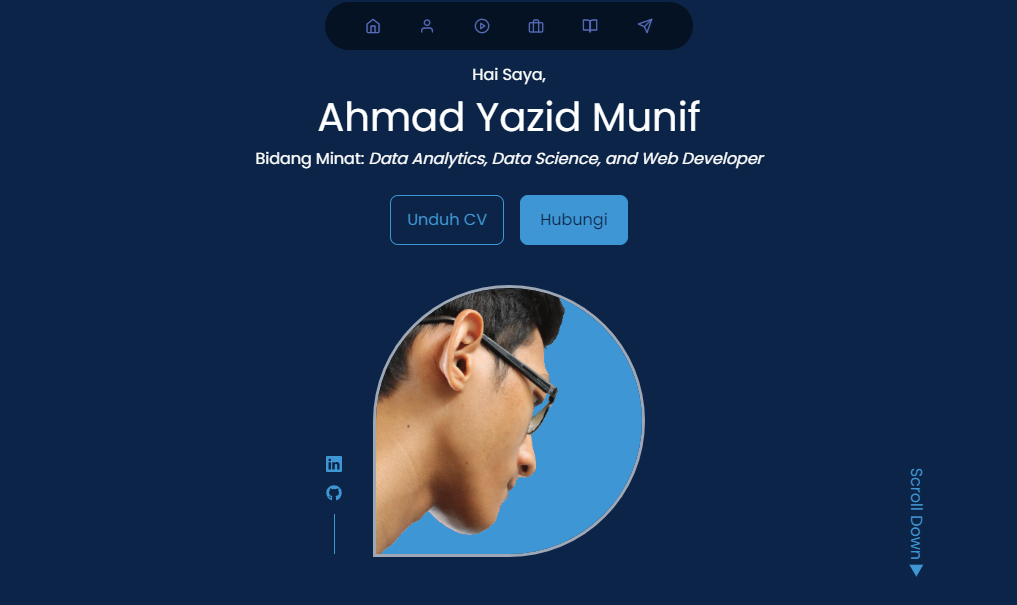
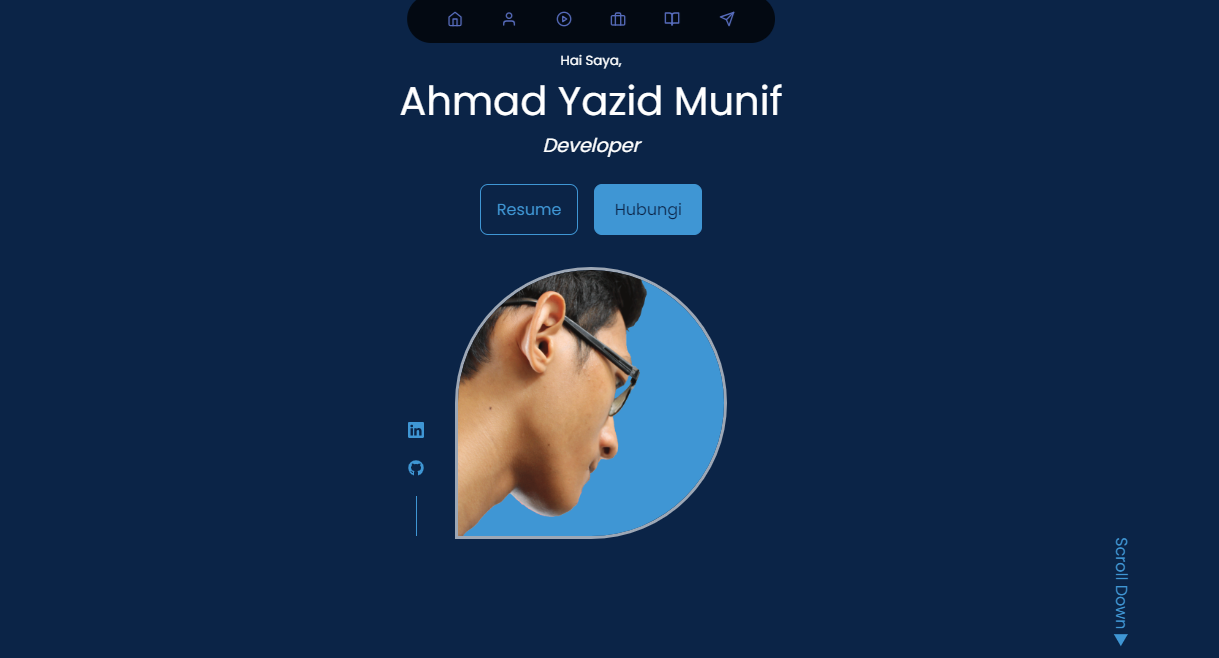
update Agustus

Changed region(s): [[0.2439, 0.0, 0.762, 0.9223], [0.884, 0.7736, 0.9449, 0.9818], [0.3048, 0.7438, 0.3353, 0.8331]]

diff --git a/src/components/experience/Experience.jsx b/src/components/experience/Experience.jsx
@@ -5,6 +5,7 @@ import CSS from '../../assets/bahasa_framework/css.png'
 import Javascript from '../../assets/bahasa_framework/js.png'
 import Python from '../../assets/bahasa_framework/python.png'
 import PHP from '../../assets/bahasa_framework/php.png'
+import Java from '../../assets/bahasa_framework/Java-Logo.png'
 import Jquery from '../../assets/bahasa_framework/jquery.png'
 import Codeigniter from '../../assets/bahasa_framework/Codeigniter.png'
 import Laravel from '../../assets/bahasa_framework/laravel.png'
@@ -18,12 +19,13 @@ const Experience = () => {
                     Saya pernah melakukan pengolahan data seperti
                     pembersihan data, manipulasi data, dan
                     data modeling dengan beberapa metode <i>machine learning</i>.
-                    Selain itu saya juga melakukan pengembangan web dengan beberapa
-                    project selama masih menjadi mahasiswa.
+                    Selain itu saya juga berlatih membuat
+                    project berbasis web untuk menambah skill programmer saya.
                 </p>
                 <p>
-                    Namun saya selalu ingin belajar lebih banyak di
-                    era teknologi industri yang cepat ini. Beberapa alat dan bahasa pemrograman yang pernah saya gunakan.
+                    Saya ingin belajar lebih banyak di
+                    era teknologi industri yang cepat ini.
+                    Beberapa alat dan bahasa pemrograman yang pernah saya gunakan antara lain.
                 </p>
                 <div className="skillmaybe">
                     <img className="used" src={HTML} alt="HTML" />
@@ -33,6 +35,7 @@ const Experience = () => {
                 <div className="skillmaybe">
                     <img className="used" src={Python} alt="Python" />
                     <img className="used" src={PHP} alt="PHP" />
+                    <img className="used" src={Java} alt="Java" />
                 </div>
                 <div className="skillmaybe">
                     <img className="used" src={Jquery} alt="Jquery" />

diff --git a/src/components/about/About.jsx b/src/components/about/About.jsx
@@ -13,17 +13,15 @@ const About = () => {
                 </div>
                 <div className="about_content">
                     <p className="aboutp">
-                        Nama saya Ahmad Yazid Munif. Saat ini saya adalah fresh graduate dan
-                        telah memperoleh gelar sarjana teknik informatika dari Universitas Trunojoyo,
-                        Madura.
+                        Nama saya Ahmad Yazid Munif. Saya lulus dan telah
+                        memperoleh gelar sarjana komputer dari jurusan Teknik Informatika
+                        Universitas Trunojoyo Madura.
                     </p>
                     <p className="aboutp secondparagraph">
                         Sepanjang studi hingga saat ini,
-                        saya lebih banyak belajar terkait dengan data.
-                        Mulai dari penambangan data <i>(Data Mining)</i>,
-                        pengolahan data (database) dan <i>Web Developer</i>.
-                        Sehingga saya memutuskan untuk mendalami karir
-                        sebagai data analyst dan data scientist.
+                        saya sangat bersemangat untuk mempelajari hal tentang programming,
+                        terutama pada web programming. Saat ini saya lebih sering belajar Python,
+                        PHP dan JavaScript untuk melatih keterampilan programming yang saya miliki.
                     </p>
                 </div>
             </div>

diff --git a/src/components/passion/Passion.jsx b/src/components/passion/Passion.jsx
@@ -11,9 +11,9 @@ const Passion = () => {
                     <article className="passion_card">
                         <BsCodeSlash className="passionIcon" />
                         &nbsp;
-                        <h5 className="cardp">Web development</h5>
-                        <p className="cardp">Membuat beberapa proyek kecil berbasis web menggunakan HTML, CSS, dan Javascript.
-                            Serta framework PHP seperti Codeigniter dan Laravel.</p>
+                        <h5 className="cardp">Web Developer</h5>
+                        <p className="cardp">Membuat beberapa proyek kecil berbasis web menggunakan HTML, CSS, Javascript, PHP dan Python.
+                            Serta framework PHP seperti Codeigniter, Laravel dan Flask.</p>
                     </article>
                     <article className="passion_card">
                         <GiMaterialsScience className="passionIcon" />

diff --git a/src/components/contact/Contact.jsx b/src/components/contact/Contact.jsx
@@ -7,10 +7,9 @@ const Contact = () => {
     return (
         <section className='contact_content' id="contact">
             <div className="itemcenter">
-                Developed by <br></br>Ahmad Yazid Munif &copy; 2023.
+                Created by <br></br>Ahmad Yazid Munif &copy; 2023.
             </div>
             <div className='itemcenter'>
-
                 <AiFillGithub className="contactIcon" /><a className='contacte' href="https://github.com/yazid29">Github</a>
                 &nbsp;&nbsp;
                 <AiFillLinkedin className="contactIcon" /><a className='contacte' href="https://www.linkedin.com/in/ahmad-yazid-munif/">LinkedIn</a>
